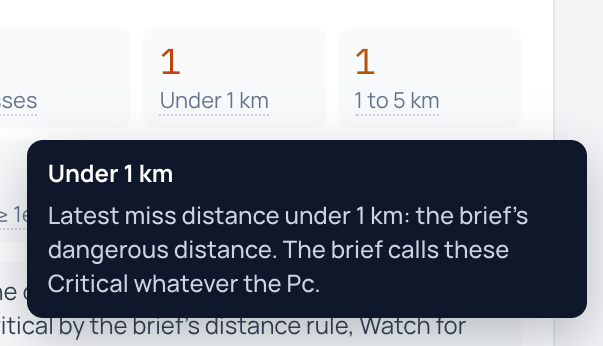
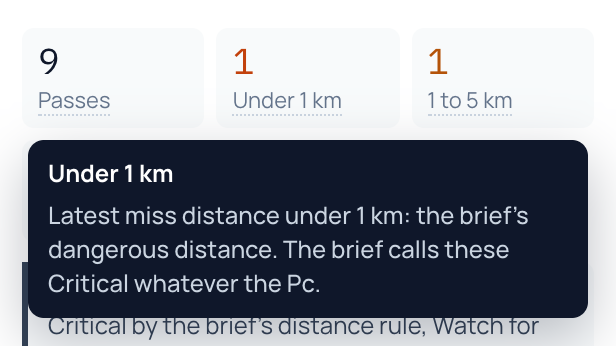
frontend(fix): address CodeRabbit review on PR #4
Summary
- sync-data validates and copies every artifact into a staging folder, then
  swaps it in; a bad file leaves public/data unchanged and names the file.
- The loader accepts forecast.json only with cells, leadEdgesDays, missEdgesM
  and validation; otherwise the console shows no forecast instead of failing.
  Loader tests now cover the success case and a partial forecast.
- Globe: turning reduced motion on mid-transition snaps the spin and phase
  tweens to their targets and clears the lapse effects.
- Time-lapse: events first reported and passed inside one skipped window are
  now in `passed`, so an unmitigated pass still flashes.
- Timeline legend: the proposed-burn tip says it is the picked option for the
  selected event and the recommended (robust-first) option for the others.
- Next 24 h: middle-column count cards are centred on their column.

Rationale
Review comments on PR #4. Three other comments were already fixed on the
branch (coa3 burn time, over-budget wording, QUIET chip).

Validation
- npm run typecheck, npm test (121 passing), npm run build.
- sync-data run against a scratch tree with a bad JSON file: exit 1, old
  files kept; then a good run swaps in and drops the stale file. The real run
  leaves public/data unchanged.
- 24 h count cards measured inside the viewport at 320, 375, 414, 440 and
  1024; 09b re-captured and checked.

diff --git a/frontend/src/model/dock.ts b/frontend/src/model/dock.ts
@@ -10,7 +10,8 @@ import { C } from './theme';
 
 /** Where a hover card anchors: its left or right edge, offset in px from the trigger's edge. */
 export interface TipSide {
-  edge: 'left' | 'right';
+  /** 'center' centres the card on its host, for hosts in the middle of a row. */
+  edge: 'left' | 'right' | 'center';
   px: number;
 }
 
@@ -454,7 +455,7 @@ export function buildLegend(budget: number): LegendItem[] {
     { key: 'bar', label: 'known', name: 'Event bar', tip: 'From the event’s first message to now. Each event is its own stream of messages, about one every 8 h. Faded: closest approach has passed.' },
     { key: 'pc', label: 'Pc ≥ 1e-4', name: 'Orange stretch', tip: 'Time when the latest message had Pc at or above 1e-4, the action threshold. In the open-events strip, the orange line is the count to decide at each run, on its own scale.' },
     { key: 'ahead', label: 'to closest approach', name: 'Dashed outline', tip: 'Time left until closest approach. Those messages have not arrived yet.' },
-    { key: 'burn', label: 'proposed burn', name: 'Proposed burn', tip: 'The planner’s recommended option (robust when it has one), drawn at its burn time with its Δv. It aims for Pc below 1e-4 and a miss above 1 km; check the gate before approving. It waits for approval.' },
+    { key: 'burn', label: 'proposed burn', name: 'Proposed burn', tip: 'For the selected event, the option picked in the workspace; for the others, the planner’s recommended option (robust when it has one, which can cost more Δv than the minimum). Drawn at its burn time with its Δv. It aims for Pc below 1e-4 and a miss above 1 km; check the gate before approving. It waits for approval.' },
     { key: 'deadline', label: 'decision deadline', name: 'Decision deadline', tip: 'After this, the cheapest burn needs more than the ' + budget + ' mm/s Δv budget.' },
     { key: 'end', label: 'passed unmitigated', name: 'Red end dot', tip: 'Closest approach passed with Pc still at or above 1e-4 and no approved burn. Grey: passed below 1e-4. Teal: burn approved.' },
     { key: 'forecast', label: 'forecast (chance it ends Critical)', name: 'Forecast', tip: 'Ring at each open event’s closest approach, filled to its chance of ending Critical (from the latest message seen at this run). In the strip, the dotted line after the playhead is the expected number of passes ending Critical per 8 h.' },

diff --git a/frontend/src/data/source.test.ts b/frontend/src/data/source.test.ts
@@ -21,7 +21,8 @@ describe('dataUrls', () => {
 describe('loadConsoleData', () => {
   afterEach(() => vi.unstubAllGlobals());
 
-  const BODY: Record<string, object> = { 'fleet.json': { missions: [] }, 'replay.json': { events: [] }, 'metrics.json': {} };
+  const FORECAST = { leadEdgesDays: [0, null], missEdgesM: [0, null], cells: [[{}]], validation: { coverage10to90: 0.8, heldOutEvents: 10 } };
+  const BODY: Record<string, object> = { 'fleet.json': { missions: [] }, 'replay.json': { events: [] }, 'metrics.json': {}, 'forecast.json': FORECAST };
   const respond = (missing: string[], body = BODY) =>
     vi.fn(async (url: string) => {
       if (missing.some((m) => url.endsWith(m))) return new Response('not found', { status: 404 });
@@ -35,6 +36,14 @@ describe('loadConsoleData', () => {
     expect(data.fleet).toEqual({ url: '/data/fleet.json', missions: [] });
     expect(data.metrics).toBeNull();
     expect(data.replay).toEqual({ url: '/data/replay.json', events: [] });
+    expect(data.forecast).toEqual({ url: '/data/forecast.json', ...FORECAST });
+  });
+
+  it('drops a forecast that lacks the fields the cards read', async () => {
+    const { leadEdgesDays: _drop, ...partial } = FORECAST;
+    vi.stubGlobal('fetch', respond([], { ...BODY, 'forecast.json': partial }));
+    const data = await loadConsoleData(dataUrls(undefined, '/'));
+    expect(data.forecast).toBeNull();
   });
 
   it('fails when the replay cannot be read', async () => {

diff --git a/frontend/src/components/Warnings24h.tsx b/frontend/src/components/Warnings24h.tsx
@@ -20,7 +20,7 @@ export function Warnings24h({ w, onPick }: { w: WarningsView; onPick: (id: numbe
       </div>
       <dl className="w24-counts">
         {w.counts.map((c, i) => (
-          <Count key={c.key} c={c} right={i % 3 === 2} />
+          <Count key={c.key} c={c} col={i % 3} />
         ))}
       </dl>
       <ul className="w24-insights" aria-label="Insights">
@@ -74,7 +74,7 @@ export function Warnings24h({ w, onPick }: { w: WarningsView; onPick: (id: numbe
   );
 }
 
-function Count({ c, right }: { c: WarningCount; right: boolean }) {
+function Count({ c, col }: { c: WarningCount; col: number }) {
   const id = useId();
   return (
     <div className="tw w24-count" tabIndex={0} aria-describedby={id}>
@@ -82,7 +82,7 @@ function Count({ c, right }: { c: WarningCount; right: boolean }) {
         <span>{c.label}</span>
       </dt>
       <dd style={{ color: c.v ? c.color : 'var(--muted)' }}>{c.v}</dd>
-      <TipCard id={id} title={c.label} lines={[c.tip]} side={{ edge: right ? 'right' : 'left', px: 0 }} />
+      <TipCard id={id} title={c.label} lines={[c.tip]} side={{ edge: col === 2 ? 'right' : col === 1 ? 'center' : 'left', px: 0 }} />
     </div>
   );
 }

diff --git a/frontend/src/data/source.ts b/frontend/src/data/source.ts
@@ -22,7 +22,8 @@ export async function loadConsoleData(urls = dataUrls()): Promise<ConsoleData> {
     getJson<Replay>(urls.replay),
     getJson<Metrics>(urls.metrics).catch(() => null),
     getJson<Forecast>(urls.forecast)
-      .then((f) => (Array.isArray(f?.cells) ? f : null))
+      // Only a forecast with every field the cards read; otherwise the console shows no forecast rather than failing.
+      .then((f) => (Array.isArray(f?.cells) && Array.isArray(f?.leadEdgesDays) && Array.isArray(f?.missEdgesM) && f?.validation ? f : null))
       .catch(() => null),
   ]);
   // Fail into the error state, not a blank page, when a file parses but is not the contract shape.

diff --git a/frontend/src/model/lapse.test.ts b/frontend/src/model/lapse.test.ts
@@ -30,6 +30,7 @@ describe('time-lapse', () => {
       ev(2, 20, [[2, -3.5, 400]]),
       ev(3, 22, [[3, -7, 9000]]),
       ev(4, 30, [[12, -7, 9000]]),
+      ev(5, 22, [[12, -3.5, 400]]),
     ]);
     const l = lapseBetween(runCtx(rp, 3, 10, NO_DECISIONS), 1);
     expect(l.dH).toBe(16);
@@ -38,6 +39,7 @@ describe('time-lapse', () => {
     expect(l.passed).toEqual([
       { id: 2, unmitigated: true },
       { id: 3, unmitigated: false },
+      { id: 5, unmitigated: true },
     ]);
     const approved = lapseBetween(runCtx(rp, 3, 10, { ...NO_DECISIONS, approved: { 2: 2 } }), 1);
     expect(approved.passed[0]).toEqual({ id: 2, unmitigated: false });

diff --git a/frontend/src/model/lapse.ts b/frontend/src/model/lapse.ts
@@ -63,7 +63,8 @@ export function lapseBetween(ctx: RunCtx, fromRun: number): Lapse {
     for (const e of replay.events) {
       const first = e.m[0][0];
       if (first > T0 && first <= T1 && e.tca > T1) arrived.push({ id: e.id, unmitigated: false });
-      if (e.tca > T0 && e.tca <= T1 && first <= T0) {
+      // Includes events first reported inside the window too, so one that escalated and passed unseen still flashes.
+      if (e.tca > T0 && e.tca <= T1) {
         const s = stateAt(e, T1, runH);
         const unmitigated = isKnown(s) && s.last[1] >= PC_ACTION && approvedAt(ctx, e.id) == null;
         passed.push({ id: e.id, unmitigated });

diff --git a/frontend/src/components/GlobeCanvas.tsx b/frontend/src/components/GlobeCanvas.tsx
@@ -81,6 +81,13 @@ export function GlobeCanvas({ scene, label }: { scene: GlobeScene; label: string
     s.reduced = mq.matches;
     const onMotion = () => {
       s.reduced = mq.matches;
+      // Turning reduced motion on mid-transition snaps to the end state, as a scene change does under reduced motion.
+      if (s.reduced) {
+        const now = performance.now();
+        s.spin = { from: s.spin.to, to: s.spin.to, t0: now };
+        s.phase = { from: s.phase.to, to: s.phase.to, t0: now };
+        s.effects = null;
+      }
       s.dirty = true;
     };
     mq.addEventListener('change', onMotion);

diff --git a/frontend/src/components/Hover.tsx b/frontend/src/components/Hover.tsx
@@ -17,7 +17,9 @@ export function noBreak(text: ReactNode): ReactNode {
   );
 }
 
-export const sideStyle = (side: TipSide = { edge: 'left', px: 0 }): CSSProperties => (side.edge === 'left' ? { left: side.px } : { right: side.px });
+// Centring uses the translate property, so fitCard's transform can still nudge the card inside the viewport.
+export const sideStyle = (side: TipSide = { edge: 'left', px: 0 }): CSSProperties =>
+  side.edge === 'center' ? { left: '50%', translate: '-50% 0' } : side.edge === 'left' ? { left: side.px } : { right: side.px };
 
 interface TipCardProps {
   id?: string;
